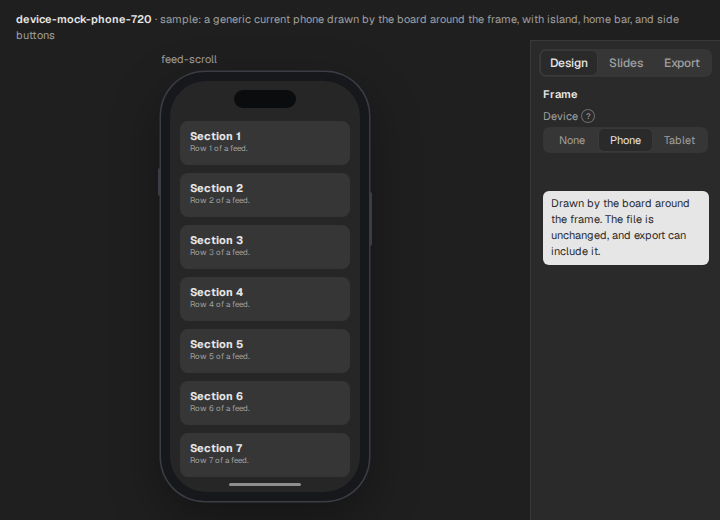
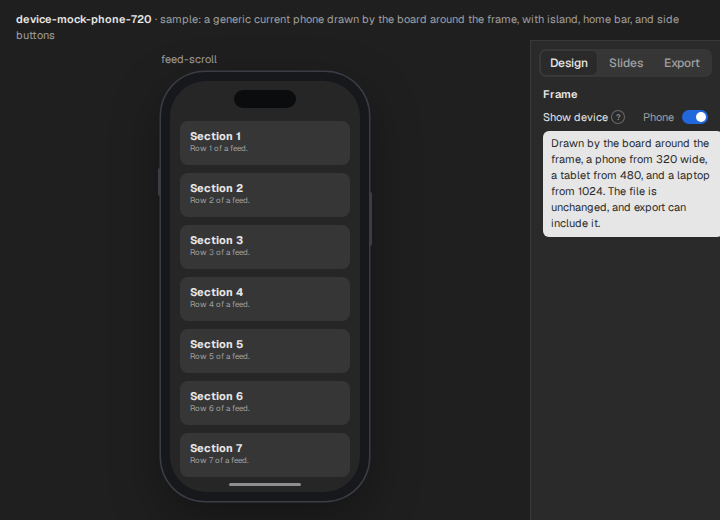
docs(design): redraw the inspector device reference as the switch

Changed region(s): [[0.7333, 0.1846, 1.0, 0.5231]]

diff --git a/canon/design/inspector/device.html b/canon/design/inspector/device.html
@@ -803,6 +803,44 @@
       .insp .itabs {
         margin: -4px -4px 10px;
       }
+      .swr {
+        display: flex;
+        align-items: center;
+        justify-content: space-between;
+        height: 16px;
+        margin-bottom: 12px;
+      }
+      .swv {
+        display: flex;
+        align-items: center;
+        gap: 8px;
+        color: var(--muted);
+        font-size: 11px;
+      }
+      .sw {
+        position: relative;
+        display: block;
+        width: 26px;
+        height: 14px;
+        border-radius: 7px;
+        background: var(--raised);
+      }
+      .sw::after {
+        content: '';
+        position: absolute;
+        top: 2px;
+        left: 2px;
+        width: 10px;
+        height: 10px;
+        border-radius: 5px;
+        background: #fff;
+      }
+      .sw.on {
+        background: var(--accentfill);
+      }
+      .sw.on::after {
+        left: 14px;
+      }
     </style>
   </head>
   <body>
@@ -847,15 +885,13 @@
           <span class="on">Design</span><span>Slides</span><span>Export</span>
         </div>
         <h4>Frame</h4>
-        <div style="color: var(--muted); margin-bottom: 4px">
-          Device<span class="q">?</span>
+        <div class="swr">
+          <span>Show device<span class="q">?</span></span
+          ><span class="swv">Phone<i class="sw on"></i></span>
         </div>
-        <div class="seg">
-          <span class="">None</span><span class="on">Phone</span
-          ><span class="">Tablet</span>
-        </div>
-        <div class="qtip" style="left: 12px; top: 150px; width: 166px">
-          Drawn by the board around the frame. The file is unchanged, and export
+        <div class="qtip" style="left: 12px; top: 90px; width: 180px">
+          Drawn by the board around the frame, a phone from 320 wide, a tablet
+          from 480, and a laptop from 1024. The file is unchanged, and export
           can include it.
         </div>
       </div>

diff --git a/canon/design/index.md b/canon/design/index.md
@@ -12,15 +12,15 @@ Each group holds accepted frames a build matches, light and dark.
 
 The board's frame and the inputs every part draws on read first.
 
-| Group         | What the user sees                                    | Code                                                  | States                                                                                                                                                                                                                                                                                                                                                                                                                                                                                                                                                                                                                                                                                                                                                                                                                                                                                                                                                                                                                                                                                                            |
-| ------------- | ----------------------------------------------------- | ----------------------------------------------------- | ----------------------------------------------------------------------------------------------------------------------------------------------------------------------------------------------------------------------------------------------------------------------------------------------------------------------------------------------------------------------------------------------------------------------------------------------------------------------------------------------------------------------------------------------------------------------------------------------------------------------------------------------------------------------------------------------------------------------------------------------------------------------------------------------------------------------------------------------------------------------------------------------------------------------------------------------------------------------------------------------------------------------------------------------------------------------------------------------------------------- |
-| `foundations` | Chrome tokens and parts, the colors, the logo         | `src/client/styles.css`, `src/client/public/icon.svg` | Both themes, and the Frameboard kit sheets                                                                                                                                                                                                                                                                                                                                                                                                                                                                                                                                                                                                                                                                                                                                                                                                                                                                                                                                                                                                                                                                        |
-| `toolbar`     | The floating toolbar under the canvas                 | `src/client/board/chrome/`                            | The pill over the canvas with Move's caret, Frame's caret open on Section, each narrow stage with More open, the Present button hovered with its tooltip                                                                                                                                                                                                                                                                                                                                                                                                                                                                                                                                                                                                                                                                                                                                                                                                                                                                                                                                                          |
-| `shell`       | The board frame around the canvas and its side panels | `src/client/board/screen.tsx`, `chrome/`              | UI hidden, panels at a fixed width                                                                                                                                                                                                                                                                                                                                                                                                                                                                                                                                                                                                                                                                                                                                                                                                                                                                                                                                                                                                                                                                                |
-| `canvas`      | Frames on the canvas, their labels, and selection     | `src/client/board/canvas.tsx`, `geometry/`, `guide/`  | Empty page, play mode, marquee, a Rectangle or Ellipse drag drawn as its shape with corners and size, an Assets tile over bare canvas drawn as the ghost of the frame its drop makes, a selected video with its media bar inside its bottom edge, snapping, findings with the quiet warning mark beside the filled error pill and a Turn off button on each card, labels at low zoom, every frame hidden, a frame previewed at phone width, a new board's guide at each step and a refused name, a section around two frames nested in Layers, a selected scroll frame with its rail mid-drag, the open-alone icon at the label's end under hover, a frame held with its Held chip, a phone frame inside its device bezel, several elements in one box with corner handles and the size chip                                                                                                                                                                                                                                                                                                                      |
-| `layers`      | The left panel's pages, layers, and find              | `src/client/board/left-panel/`, `find/`               | Editing a layer, many pages, a search, find results                                                                                                                                                                                                                                                                                                                                                                                                                                                                                                                                                                                                                                                                                                                                                                                                                                                                                                                                                                                                                                                               |
-| `tabs`        | The left panel's Theme and Assets tabs                | `left-panel/theme/`, `src/client/board/assets/`       | Tokens shown, no tokens, assets                                                                                                                                                                                                                                                                                                                                                                                                                                                                                                                                                                                                                                                                                                                                                                                                                                                                                                                                                                                                                                                                                   |
-| `inspector`   | The right panel for a frame or an element             | `src/client/board/inspector/`                         | Text element, one frame with Selection colors capped at five, several frames, several elements with Mixed values and partial counts under an Arrange row and the Layout header's Use auto layout button, the Preview row idle and active, the Layout section on a shared row with its Use auto layout button, the Position section placed Absolute with its tip and in flow, the Height row on Scroll, the Device row on Phone beside its framed phone, the Also shows at row listing two linked widths with its plus, the Page section with the transition list open over a slide and the This slide row, the Motion section held mid-way, the Video section with its Controls, Autoplay, Loop, and Muted in the file switches, the phone link card open on a frame, the Export section with its Name field and one line per file, each panel under its Design, Slides, or Export tab, the Slides tab on an element with its step, This slide, and Page, the Export tab on one frame with its phone link and on several frames with its one line, the one-row frame crumb over an element with its frame hovered |
+| Group         | What the user sees                                    | Code                                                  | States                                                                                                                                                                                                                                                                                                                                                                                                                                                                                                                                                                                                                                                                                                                                                                                                                                                                                                                                                                                                                                                                                                                             |
+| ------------- | ----------------------------------------------------- | ----------------------------------------------------- | ---------------------------------------------------------------------------------------------------------------------------------------------------------------------------------------------------------------------------------------------------------------------------------------------------------------------------------------------------------------------------------------------------------------------------------------------------------------------------------------------------------------------------------------------------------------------------------------------------------------------------------------------------------------------------------------------------------------------------------------------------------------------------------------------------------------------------------------------------------------------------------------------------------------------------------------------------------------------------------------------------------------------------------------------------------------------------------------------------------------------------------- |
+| `foundations` | Chrome tokens and parts, the colors, the logo         | `src/client/styles.css`, `src/client/public/icon.svg` | Both themes, and the Frameboard kit sheets                                                                                                                                                                                                                                                                                                                                                                                                                                                                                                                                                                                                                                                                                                                                                                                                                                                                                                                                                                                                                                                                                         |
+| `toolbar`     | The floating toolbar under the canvas                 | `src/client/board/chrome/`                            | The pill over the canvas with Move's caret, Frame's caret open on Section, each narrow stage with More open, the Present button hovered with its tooltip                                                                                                                                                                                                                                                                                                                                                                                                                                                                                                                                                                                                                                                                                                                                                                                                                                                                                                                                                                           |
+| `shell`       | The board frame around the canvas and its side panels | `src/client/board/screen.tsx`, `chrome/`              | UI hidden, panels at a fixed width                                                                                                                                                                                                                                                                                                                                                                                                                                                                                                                                                                                                                                                                                                                                                                                                                                                                                                                                                                                                                                                                                                 |
+| `canvas`      | Frames on the canvas, their labels, and selection     | `src/client/board/canvas.tsx`, `geometry/`, `guide/`  | Empty page, play mode, marquee, a Rectangle or Ellipse drag drawn as its shape with corners and size, an Assets tile over bare canvas drawn as the ghost of the frame its drop makes, a selected video with its media bar inside its bottom edge, snapping, findings with the quiet warning mark beside the filled error pill and a Turn off button on each card, labels at low zoom, every frame hidden, a frame previewed at phone width, a new board's guide at each step and a refused name, a section around two frames nested in Layers, a selected scroll frame with its rail mid-drag, the open-alone icon at the label's end under hover, a frame held with its Held chip, a phone frame inside its device bezel, several elements in one box with corner handles and the size chip                                                                                                                                                                                                                                                                                                                                       |
+| `layers`      | The left panel's pages, layers, and find              | `src/client/board/left-panel/`, `find/`               | Editing a layer, many pages, a search, find results                                                                                                                                                                                                                                                                                                                                                                                                                                                                                                                                                                                                                                                                                                                                                                                                                                                                                                                                                                                                                                                                                |
+| `tabs`        | The left panel's Theme and Assets tabs                | `left-panel/theme/`, `src/client/board/assets/`       | Tokens shown, no tokens, assets                                                                                                                                                                                                                                                                                                                                                                                                                                                                                                                                                                                                                                                                                                                                                                                                                                                                                                                                                                                                                                                                                                    |
+| `inspector`   | The right panel for a frame or an element             | `src/client/board/inspector/`                         | Text element, one frame with Selection colors capped at five, several frames, several elements with Mixed values and partial counts under an Arrange row and the Layout header's Use auto layout button, the Preview row idle and active, the Layout section on a shared row with its Use auto layout button, the Position section placed Absolute with its tip and in flow, the Height row on Scroll, the Show device switch on, naming Phone, beside its framed phone, the Also shows at row listing two linked widths with its plus, the Page section with the transition list open over a slide and the This slide row, the Motion section held mid-way, the Video section with its Controls, Autoplay, Loop, and Muted in the file switches, the phone link card open on a frame, the Export section with its Name field and one line per file, each panel under its Design, Slides, or Export tab, the Slides tab on an element with its step, This slide, and Page, the Export tab on one frame with its phone link and on several frames with its one line, the one-row frame crumb over an element with its frame hovered |
 
 ## Home, overlays, and agents
 
